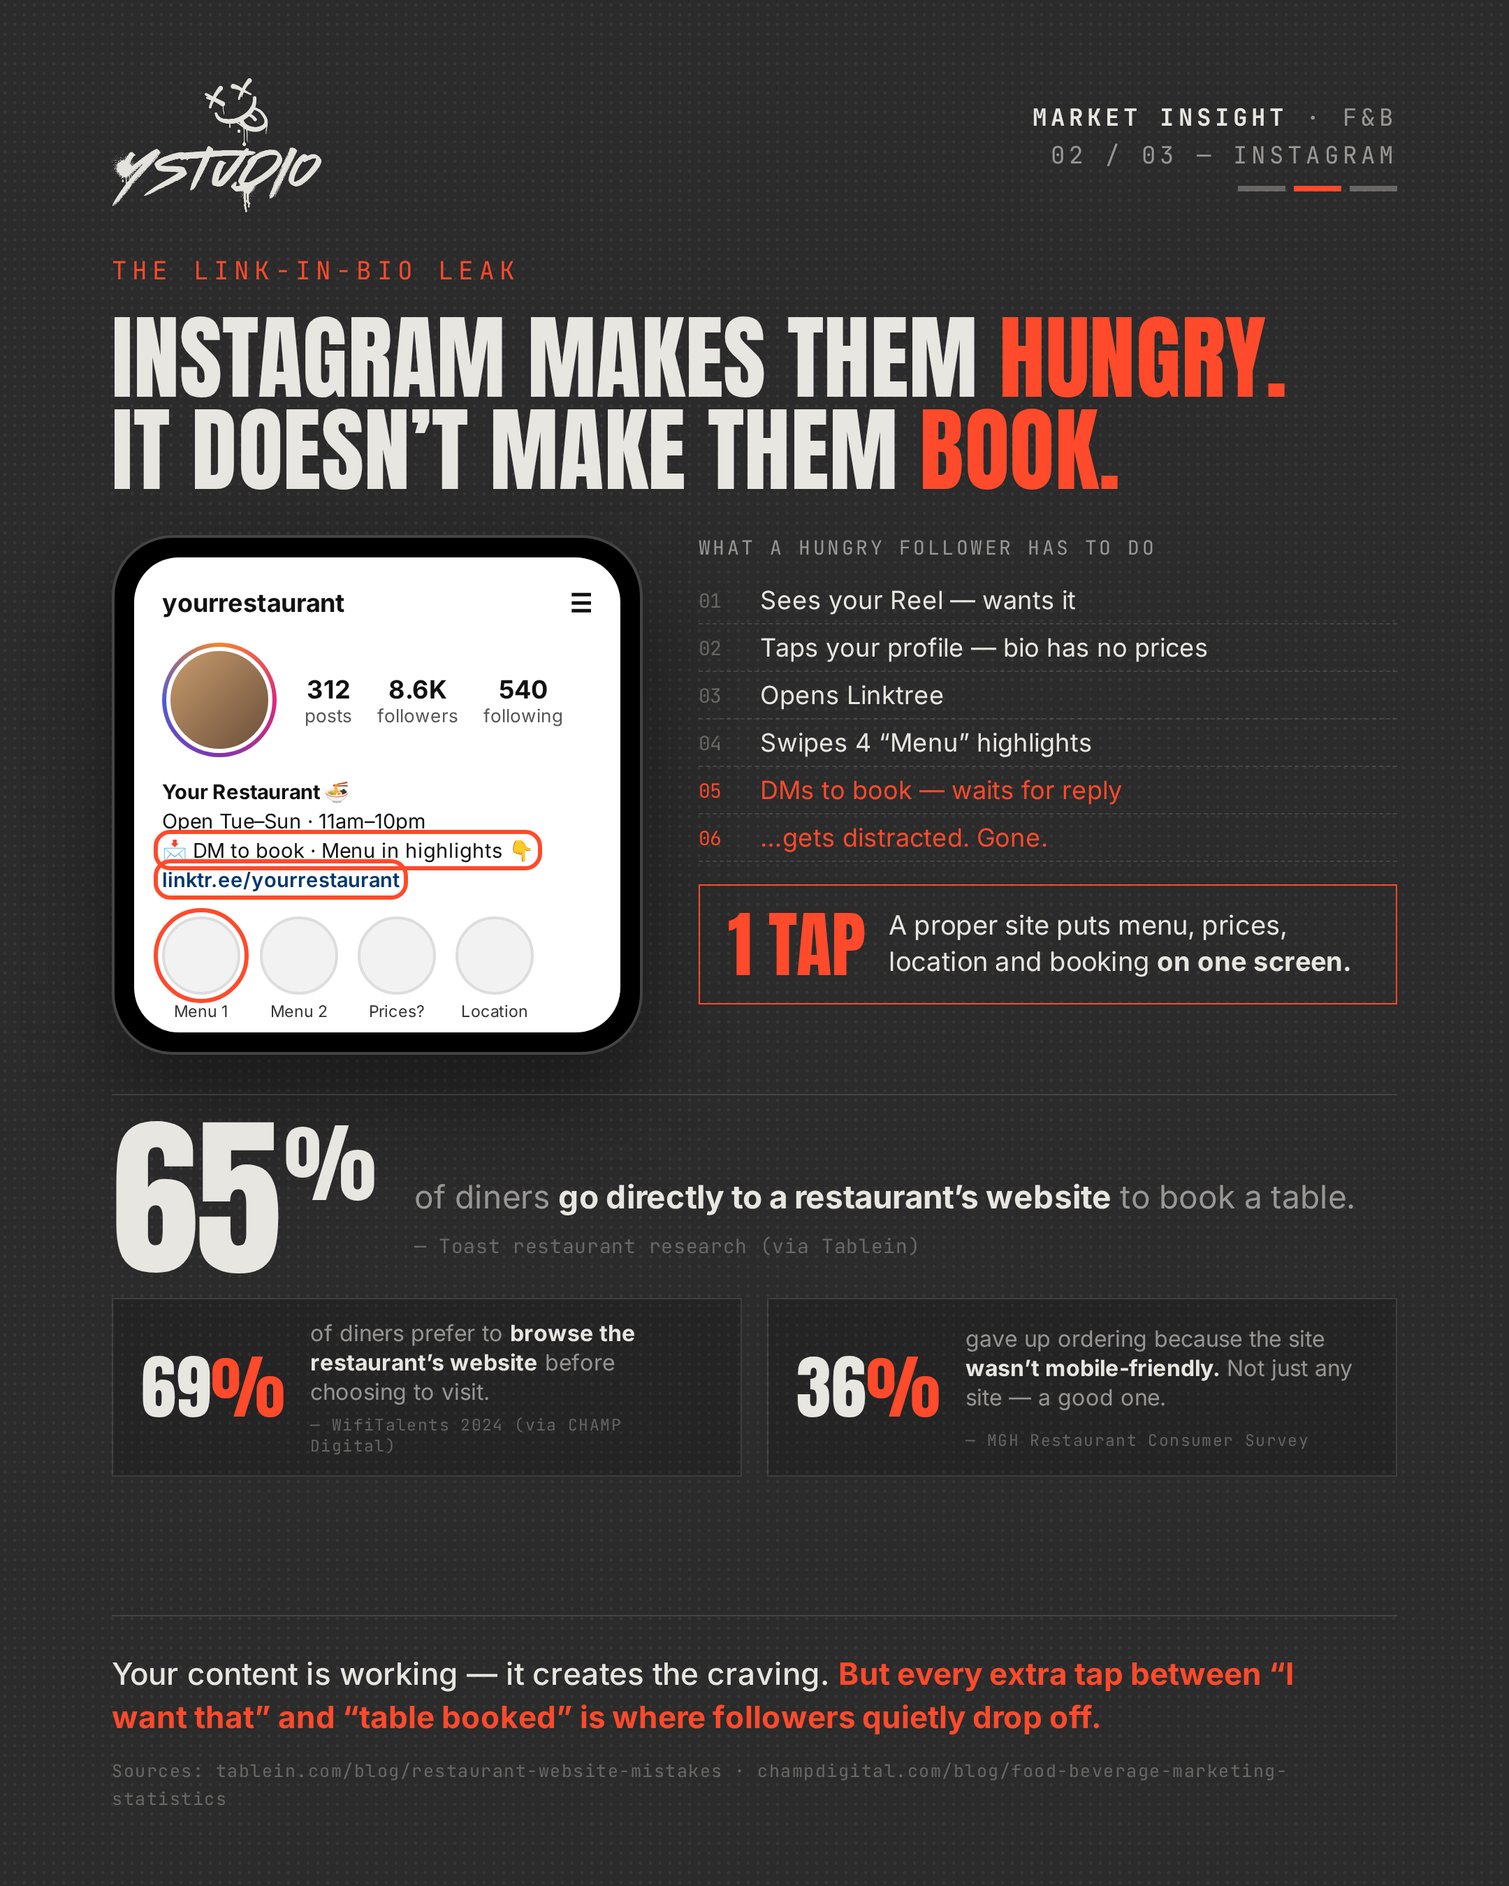
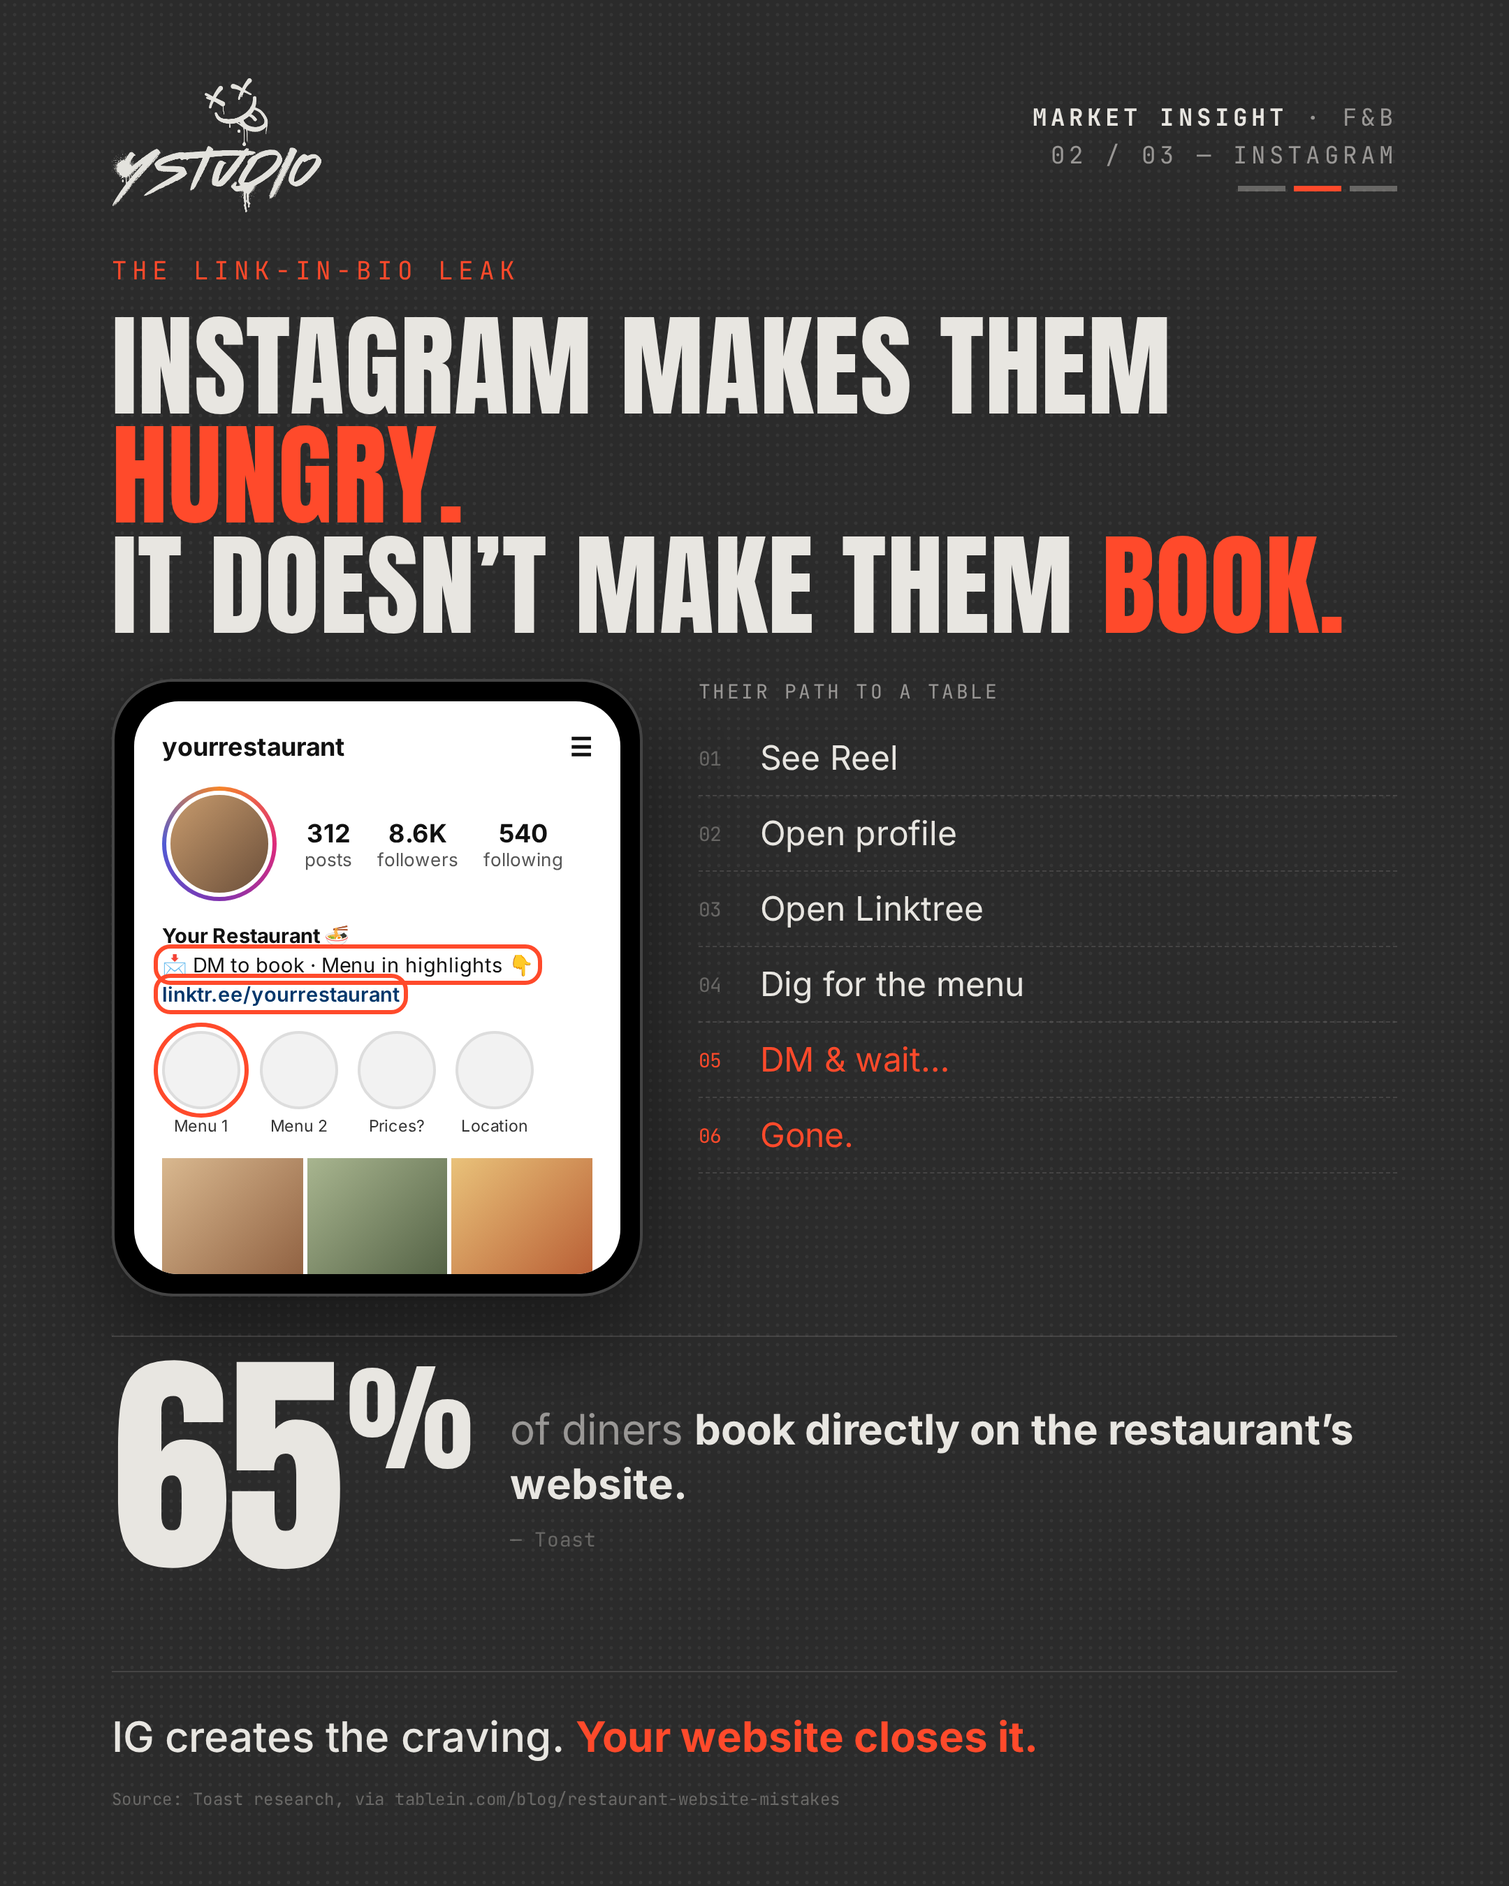
refactor: simplify insight slides copy to one stat and one line each
Claude-Session: https://claude.ai/code/session_01YC7NAw1BEZqLFbiZ4qDA33

Changed region(s): [[0.062, 0.1556, 0.8995, 0.84], [0.062, 0.8711, 0.8375, 0.9644]]

diff --git a/marketing/insights-no-website/slides.html b/marketing/insights-no-website/slides.html
@@ -27,20 +27,20 @@
   .pager i.on{background:var(--hot)}
 
   .kicker{font-family:'JetBrains Mono',monospace;font-size:18px;letter-spacing:.2em;text-transform:uppercase;color:var(--hot);margin-top:30px}
-  h1{font-family:Anton,Impact,sans-serif;font-weight:400;font-size:66px;line-height:1;text-transform:uppercase;letter-spacing:.005em;margin-top:18px}
+  h1{font-family:Anton,Impact,sans-serif;font-weight:400;font-size:80px;line-height:.98;text-transform:uppercase;letter-spacing:.005em;margin-top:18px}
   h1 s{text-decoration:none;color:var(--dim)}
   h1 em{font-style:normal;color:var(--hot)}
 
   .stat{display:flex;align-items:flex-end;gap:28px;margin-top:28px;padding-top:24px;border-top:1px solid var(--line)}
-  .num{font-family:Anton,Impact,sans-serif;font-size:124px;line-height:.8;color:var(--bone);letter-spacing:-.01em;flex:none}
+  .num{font-family:Anton,Impact,sans-serif;font-size:170px;line-height:.8;color:var(--bone);letter-spacing:-.01em;flex:none}
   .num small{font-size:.5em;vertical-align:top;margin-left:4px}
-  .stat p{font-size:23px;line-height:1.32;color:var(--mute);padding-bottom:6px}
+  .stat p{font-size:30px;line-height:1.32;color:var(--mute);padding-bottom:6px}
   .stat p b{color:var(--bone);font-weight:700}
   .src{font-family:'JetBrains Mono',monospace;font-size:14px;color:var(--dim);letter-spacing:.06em;margin-top:10px;display:block}
 
   .foot{margin-top:auto;display:flex;justify-content:space-between;align-items:flex-end;gap:40px;padding-top:26px;border-top:1px solid var(--line)}
-  .foot .so{font-size:22px;line-height:1.38;color:var(--bone);font-weight:500;max-width:880px}
-  #s3 .foot .so{max-width:560px}
+  .foot .so{font-size:30px;line-height:1.38;color:var(--bone);font-weight:500;max-width:880px}
+  #s3 .foot .so{max-width:680px;font-size:27px}
   .foot .so b{color:var(--hot);font-weight:700}
   .sources{font-family:'JetBrains Mono',monospace;font-size:12.5px;line-height:1.6;color:var(--dim);margin-top:14px;letter-spacing:.02em}
 
@@ -55,7 +55,7 @@
   /* ---------- SLIDE 1: Google Maps cards ---------- */
   .maps{display:grid;grid-template-columns:1fr 1fr;gap:22px;margin-top:28px}
   .gcard{background:#fff;border-radius:22px;color:#202124;padding:20px 22px 18px;font-family:Inter,Arial,sans-serif;box-shadow:0 30px 60px rgba(0,0,0,.35)}
-  .gcard .ph{height:84px;border-radius:14px;margin:-8px -8px 18px;background:linear-gradient(135deg,#6b4f3a,#c89b6d 55%,#e9d2ad);position:relative;overflow:hidden}
+  .gcard .ph{height:110px;border-radius:14px;margin:-8px -8px 18px;background:linear-gradient(135deg,#6b4f3a,#c89b6d 55%,#e9d2ad);position:relative;overflow:hidden}
   .gcard .ph::after{content:"";position:absolute;inset:0;background:radial-gradient(circle at 30% 70%,rgba(255,255,255,.35),transparent 40%),radial-gradient(circle at 75% 35%,rgba(0,0,0,.25),transparent 45%)}
   .gcard.b .ph{background:linear-gradient(135deg,#34423a,#7c8f6a 55%,#d8d0a8)}
   .gcard h3{font-size:25px;font-weight:600;letter-spacing:-.01em}
@@ -80,7 +80,7 @@
   /* ---------- SLIDE 2: IG phone ---------- */
   .ig-wrap{display:grid;grid-template-columns:380px 1fr;gap:40px;margin-top:28px;align-items:start}
   .phone{background:#000;border-radius:44px;padding:14px;box-shadow:0 30px 60px rgba(0,0,0,.4);border:2px solid #444}
-  .screen{background:#fff;border-radius:32px;color:#111;padding:22px 20px 20px;font-family:Inter,Arial,sans-serif;height:340px;overflow:hidden}
+  .screen{background:#fff;border-radius:32px;color:#111;padding:22px 20px 20px;font-family:Inter,Arial,sans-serif;height:410px;overflow:hidden}
   .ig-h{display:flex;justify-content:space-between;align-items:center;font-weight:700;font-size:18px}
   .ig-row{display:flex;align-items:center;gap:20px;margin-top:18px}
   .ava{width:82px;height:82px;border-radius:50%;padding:3px;background:conic-gradient(#f58529,#dd2a7b,#8134af,#515bd4,#f58529)}
@@ -99,7 +99,7 @@
   .circ{outline:3px solid #FF4A2B;outline-offset:3px;border-radius:6px}
 
   .path{list-style:none;counter-reset:s}
-  .path li{counter-increment:s;display:flex;align-items:center;gap:16px;font-size:18px;color:var(--bone);padding:6px 0;border-bottom:1px dashed var(--line)}
+  .path li{counter-increment:s;display:flex;align-items:center;gap:16px;font-size:24px;color:var(--bone);padding:12px 0;border-bottom:1px dashed var(--line)}
   .path li::before{content:counter(s,decimal-leading-zero);font-family:'JetBrains Mono',monospace;font-size:14px;color:var(--dim);width:28px}
   .path li.drop{color:var(--hot)}
   .path li.drop::before{color:var(--hot)}
@@ -117,7 +117,7 @@
   .col .t2{font-size:15px;color:var(--mute);margin-top:6px}
   .col+.col .t2{color:rgba(43,43,43,.6)}
   .col ul{list-style:none;margin-top:18px}
-  .col li{font-size:18px;line-height:1.35;padding:12px 0;border-top:1px solid var(--line);display:flex;gap:12px}
+  .col li{font-size:22px;line-height:1.3;padding:16px 0;border-top:1px solid var(--line);display:flex;gap:12px}
   .col+.col li{border-top-color:rgba(43,43,43,.15)}
   .col li i{font-style:normal;font-family:'JetBrains Mono',monospace;font-weight:700;flex:none;width:18px}
   .col li i.x{color:var(--hot)}
@@ -131,6 +131,10 @@
   .bar .cut{background:repeating-linear-gradient(-45deg,var(--hot) 0 10px,#d63a1f 10px 20px);display:flex;align-items:center;justify-content:center;font-weight:800;font-size:18px;color:#fff}
 
   .cta{font-family:'JetBrains Mono',monospace;font-size:15px;letter-spacing:.12em;text-transform:uppercase;color:var(--ink);background:var(--hot);padding:14px 18px;white-space:nowrap;font-weight:700}
+  .tagline{font-size:20px;color:var(--mute);margin-top:12px;text-align:center}
+  .tagline b{color:var(--hot)}
+  .tagline.ok b{color:var(--bone)}
+  .sources{font-size:12px}
 </style>
 </head>
 <body>
@@ -146,7 +150,7 @@
   </div>
 
   <div class="kicker">The Google Maps blind spot</div>
-  <h1>Your 4.8★ gets them <em>interested.</em><br>No “Website” button <em>loses them.</em></h1>
+  <h1>Found on Google.<br><em>Lost at the “Website” button.</em></h1>
 
   <div class="maps">
     <div>
@@ -155,46 +159,39 @@
         <div class="ph"></div>
         <h3>Your Restaurant</h3>
         <div class="rt"><b>4.8</b><span class="stars">★★★★★</span>(1,204)</div>
-        <div class="cat">Restaurant · Open now</div>
         <div class="acts">
           <div class="act"><div class="ic"><svg viewBox="0 0 24 24"><path d="M21.7 11.3l-9-9a1 1 0 00-1.4 0l-9 9a1 1 0 000 1.4l9 9a1 1 0 001.4 0l9-9a1 1 0 000-1.4zM14 14.5V12h-4v3H8v-4a1 1 0 011-1h5V7.5l3.5 3.5-3.5 3.5z"/></svg></div>Directions</div>
           <div class="act"><div class="ic"><svg viewBox="0 0 24 24"><path d="M6.6 10.8a15.1 15.1 0 006.6 6.6l2.2-2.2a1 1 0 011-.25 11.4 11.4 0 003.6.57 1 1 0 011 1V20a1 1 0 01-1 1A17 17 0 013 4a1 1 0 011-1h3.5a1 1 0 011 1c0 1.25.2 2.45.57 3.57a1 1 0 01-.25 1z"/></svg></div>Call</div>
           <div class="act dead"><div class="ic"><svg viewBox="0 0 24 24"><path d="M12 2a10 10 0 100 20 10 10 0 000-20zm6.9 6h-2.9a15.7 15.7 0 00-1.4-3.6A8 8 0 0118.9 8zM12 4c.8 1.2 1.5 2.5 1.9 4h-3.8c.4-1.4 1.1-2.8 1.9-4zM4.3 14a8 8 0 010-4h3.4a16 16 0 000 4H4.3zm.8 2h3c.3 1.3.8 2.5 1.4 3.6A8 8 0 015.1 16zM8 8H5.1a8 8 0 014.3-3.6C8.8 5.5 8.4 6.7 8 8zm4 12c-.8-1.2-1.5-2.5-1.9-4h3.8c-.4 1.4-1.1 2.8-1.9 4zm2.3-6H9.7a14.7 14.7 0 010-4h4.6a14.7 14.7 0 010 4zm.3 5.6c.6-1.1 1.1-2.3 1.4-3.6h3a8 8 0 01-4.4 3.6zm1.8-5.6a16 16 0 000-4h3.4a8 8 0 010 4h-3.4z"/></svg></div><span>No website</span></div>
         </div>
       </div>
-      <p class="note">They loved the reviews. They wanted the <b>menu, prices, a way to book.</b> They found nothing.</p>
+      <p class="tagline">Great reviews. <b>Dead end.</b></p>
     </div>
     <div>
-      <div class="glabel">○ The place 200m away</div>
+      <div class="glabel">○ Next door</div>
       <div class="gcard b">
         <div class="ph"></div>
         <h3>Competitor Bistro</h3>
         <div class="rt"><b>4.4</b><span class="stars">★★★★☆</span>(386)</div>
-        <div class="cat">Restaurant · Open now</div>
         <div class="acts">
           <div class="act"><div class="ic"><svg viewBox="0 0 24 24"><path d="M21.7 11.3l-9-9a1 1 0 00-1.4 0l-9 9a1 1 0 000 1.4l9 9a1 1 0 001.4 0l9-9a1 1 0 000-1.4zM14 14.5V12h-4v3H8v-4a1 1 0 011-1h5V7.5l3.5 3.5-3.5 3.5z"/></svg></div>Directions</div>
           <div class="act live"><div class="ic"><svg viewBox="0 0 24 24"><path d="M12 2a10 10 0 100 20 10 10 0 000-20zm6.9 6h-2.9a15.7 15.7 0 00-1.4-3.6A8 8 0 0118.9 8zM12 4c.8 1.2 1.5 2.5 1.9 4h-3.8c.4-1.4 1.1-2.8 1.9-4zM4.3 14a8 8 0 010-4h3.4a16 16 0 000 4H4.3zm.8 2h3c.3 1.3.8 2.5 1.4 3.6A8 8 0 015.1 16zM8 8H5.1a8 8 0 014.3-3.6C8.8 5.5 8.4 6.7 8 8zm4 12c-.8-1.2-1.5-2.5-1.9-4h3.8c-.4 1.4-1.1 2.8-1.9 4zm2.3-6H9.7a14.7 14.7 0 010-4h4.6a14.7 14.7 0 010 4zm.3 5.6c.6-1.1 1.1-2.3 1.4-3.6h3a8 8 0 01-4.4 3.6zm1.8-5.6a16 16 0 000-4h3.4a8 8 0 010 4h-3.4z"/></svg></div>Website</div>
           <div class="act live"><div class="ic"><svg viewBox="0 0 24 24"><path d="M19 4h-1V2h-2v2H8V2H6v2H5a2 2 0 00-2 2v14a2 2 0 002 2h14a2 2 0 002-2V6a2 2 0 00-2-2zm0 16H5V9h14v11zM7 11h5v5H7z"/></svg></div>Reserve</div>
         </div>
       </div>
-      <p class="note">Fewer stars. <b>But one tap to the menu and a table.</b> Guess who gets tonight’s booking.</p>
+      <p class="tagline ok">Fewer stars. <b>Gets the booking.</b></p>
     </div>
   </div>
 
   <div class="stat">
     <div class="num">18<small>×</small></div>
-    <p><b>more daily orders</b> for restaurants that link their own ordering site on their Google profile vs. those that don’t.<span class="src">— Grubhub, Google Business link study (2021–22)</span></p>
-  </div>
-
-  <div class="chips">
-    <div class="chip"><div class="n">70<em>%</em></div><p>more likely to <b style="color:var(--bone)">visit</b> a business with a complete Google profile.</p><span class="src">— Google</span></div>
-    <div class="chip"><div class="n">+21<em>%</em></div><p>more conversion actions when a <b style="color:var(--bone)">booking link</b> is added to the profile.</p><span class="src">— BizIQ, GBP Optimization Stats 2026</span></div>
+    <p><b>more daily orders</b> for restaurants that link their own site on Google.<span class="src">— Grubhub</span></p>
   </div>
 
   <div class="foot">
     <div>
-      <div class="so">Your Google listing already does the hard part — getting found. <b>Without a site behind it, the ready-to-eat-tonight crowd walks next door.</b></div>
-      <div class="sources">Sources: get.grubhub.com/blog/google-business-link · Google Business Profile · biziq.com/blog/google-business-profile-optimization-statistics</div>
+      <div class="so">They already found you. <b>Don’t send them next door.</b></div>
+      <div class="sources">Source: get.grubhub.com/blog/google-business-link</div>
     </div>
   </div>
 </section>
@@ -219,39 +216,33 @@
         <div class="ava"><i></i></div>
         <div class="ig-n"><div><b>312</b>posts</div><div><b>8.6K</b>followers</div><div><b>540</b>following</div></div>
       </div>
-      <div class="bio"><b>Your Restaurant 🍜</b><br>Open Tue–Sun · 11am–10pm<br><span class="circ">📩 DM to book · Menu in highlights 👇</span><br><span class="lk circ">linktr.ee/yourrestaurant</span></div>
+      <div class="bio"><b>Your Restaurant 🍜</b><br><span class="circ">📩 DM to book · Menu in highlights 👇</span><br><span class="lk circ">linktr.ee/yourrestaurant</span></div>
       <div class="hl"><div><i class="circ"></i>Menu 1</div><div><i></i>Menu 2</div><div><i></i>Prices?</div><div><i></i>Location</div></div>
       <div class="grid3"><i></i><i></i><i></i><i></i><i></i><i></i></div>
     </div></div>
 
     <div>
-      <div class="glabel">What a hungry follower has to do</div>
+      <div class="glabel">Their path to a table</div>
       <ol class="path">
-        <li>Sees your Reel — wants it</li>
-        <li>Taps your profile — bio has no prices</li>
-        <li>Opens Linktree</li>
-        <li>Swipes 4 “Menu” highlights</li>
-        <li class="drop">DMs to book — waits for reply</li>
-        <li class="drop">…gets distracted. Gone.</li>
+        <li>See Reel</li>
+        <li>Open profile</li>
+        <li>Open Linktree</li>
+        <li>Dig for the menu</li>
+        <li class="drop">DM &amp; wait…</li>
+        <li class="drop">Gone.</li>
       </ol>
-      <div class="vs"><div class="n">1 TAP</div><p>A proper site puts menu, prices, location and booking <b>on one screen.</b></p></div>
     </div>
   </div>
 
   <div class="stat">
     <div class="num">65<small>%</small></div>
-    <p>of diners <b>go directly to a restaurant’s website</b> to book a table.<span class="src">— Toast restaurant research (via Tablein)</span></p>
-  </div>
-
-  <div class="chips">
-    <div class="chip"><div class="n">69<em>%</em></div><p>of diners prefer to <b style="color:var(--bone)">browse the restaurant’s website</b> before choosing to visit.</p><span class="src">— WifiTalents 2024 (via CHAMP Digital)</span></div>
-    <div class="chip"><div class="n">36<em>%</em></div><p>gave up ordering because the site <b style="color:var(--bone)">wasn’t mobile-friendly.</b> Not just any site — a good one.</p><span class="src">— MGH Restaurant Consumer Survey</span></div>
+    <p>of diners <b>book directly on the restaurant’s website.</b><span class="src">— Toast</span></p>
   </div>
 
   <div class="foot">
     <div>
-      <div class="so">Your content is working — it creates the craving. <b>But every extra tap between “I want that” and “table booked” is where followers quietly drop off.</b></div>
-      <div class="sources">Sources: tablein.com/blog/restaurant-website-mistakes · champdigital.com/blog/food-beverage-marketing-statistics</div>
+      <div class="so">IG creates the craving. <b>Your website closes it.</b></div>
+      <div class="sources">Source: Toast research, via tablein.com/blog/restaurant-website-mistakes</div>
     </div>
   </div>
 </section>
@@ -272,44 +263,35 @@
   <div class="split">
     <div class="col">
       <h4>Rented</h4>
-      <div class="t">IG DMs + delivery apps</div>
-      <div class="t2">Someone else’s platform, someone else’s rules</div>
+      <div class="t">DMs + delivery apps</div>
       <ul>
-        <li><i class="x">✕</i><span><b>15–30% commission</b> taken on every delivery-app order</span></li>
-        <li><i class="x">✕</i><span>Bookings buried in DMs — <b>missed at peak hour</b></span></li>
-        <li><i class="x">✕</i><span>Customer data <b>stays with the platform</b></span></li>
-        <li><i class="x">✕</i><span>Algorithm change or banned account = <b>traffic gone overnight</b></span></li>
+        <li><i class="x">✕</i><span><b>15–30%</b> commission</span></li>
+        <li><i class="x">✕</i><span>Missed DMs at peak hour</span></li>
+        <li><i class="x">✕</i><span>Algorithm decides your traffic</span></li>
       </ul>
     </div>
     <div class="col">
       <h4>Owned</h4>
-      <div class="t">Your own website</div>
-      <div class="t2">Your address on the internet — permanent</div>
+      <div class="t">Your website</div>
       <ul>
-        <li><i class="ok">✓</i><span><b>0% commission</b> on direct orders &amp; bookings</span></li>
-        <li><i class="ok">✓</i><span>Booking form <b>takes reservations 24/7</b></span></li>
-        <li><i class="ok">✓</i><span>Names, numbers, emails <b>become your regulars list</b></span></li>
-        <li><i class="ok">✓</i><span>Google, IG, TikTok all <b>point to one place you control</b></span></li>
+        <li><i class="ok">✓</i><span><b>0%</b> commission</span></li>
+        <li><i class="ok">✓</i><span>Bookings 24/7</span></li>
+        <li><i class="ok">✓</i><span>Your own regulars list</span></li>
       </ul>
     </div>
   </div>
 
-  <div class="bar">
-    <div class="lbl"><span>Every 100 in delivery-app sales</span><span>typical commission</span></div>
-    <div class="track"><div class="keep" style="width:70%">You keep ~70</div><div class="cut" style="width:30%">−30 gone</div></div>
-  </div>
-
   <div class="stat">
     <div class="num">+20<small>%</small></div>
-    <p>higher customer spend when guests <b>order through digital channels</b> instead of in person.<span class="src">— Deloitte, 2021 (via CHAMP Digital)</span></p>
+    <p><b>higher spend</b> when guests order digitally.<span class="src">— Deloitte</span></p>
   </div>
 
   <div class="foot">
     <div>
-      <div class="so">Social media is where they find you. <b>Your website is where you keep them.</b></div>
-      <div class="sources">Sources: champdigital.com/blog/food-beverage-marketing-statistics · delivery-app commission range: typical published merchant rates</div>
+      <div class="so">Social finds them. <b>Your website keeps them.</b></div>
+      <div class="sources">Source: Deloitte 2021, via champdigital.com · commission: typical delivery-app rates</div>
     </div>
-    <div class="cta">Free listing audit → reply “AUDIT”</div>
+    <div class="cta">Free audit → reply “AUDIT”</div>
   </div>
 </section>
 
